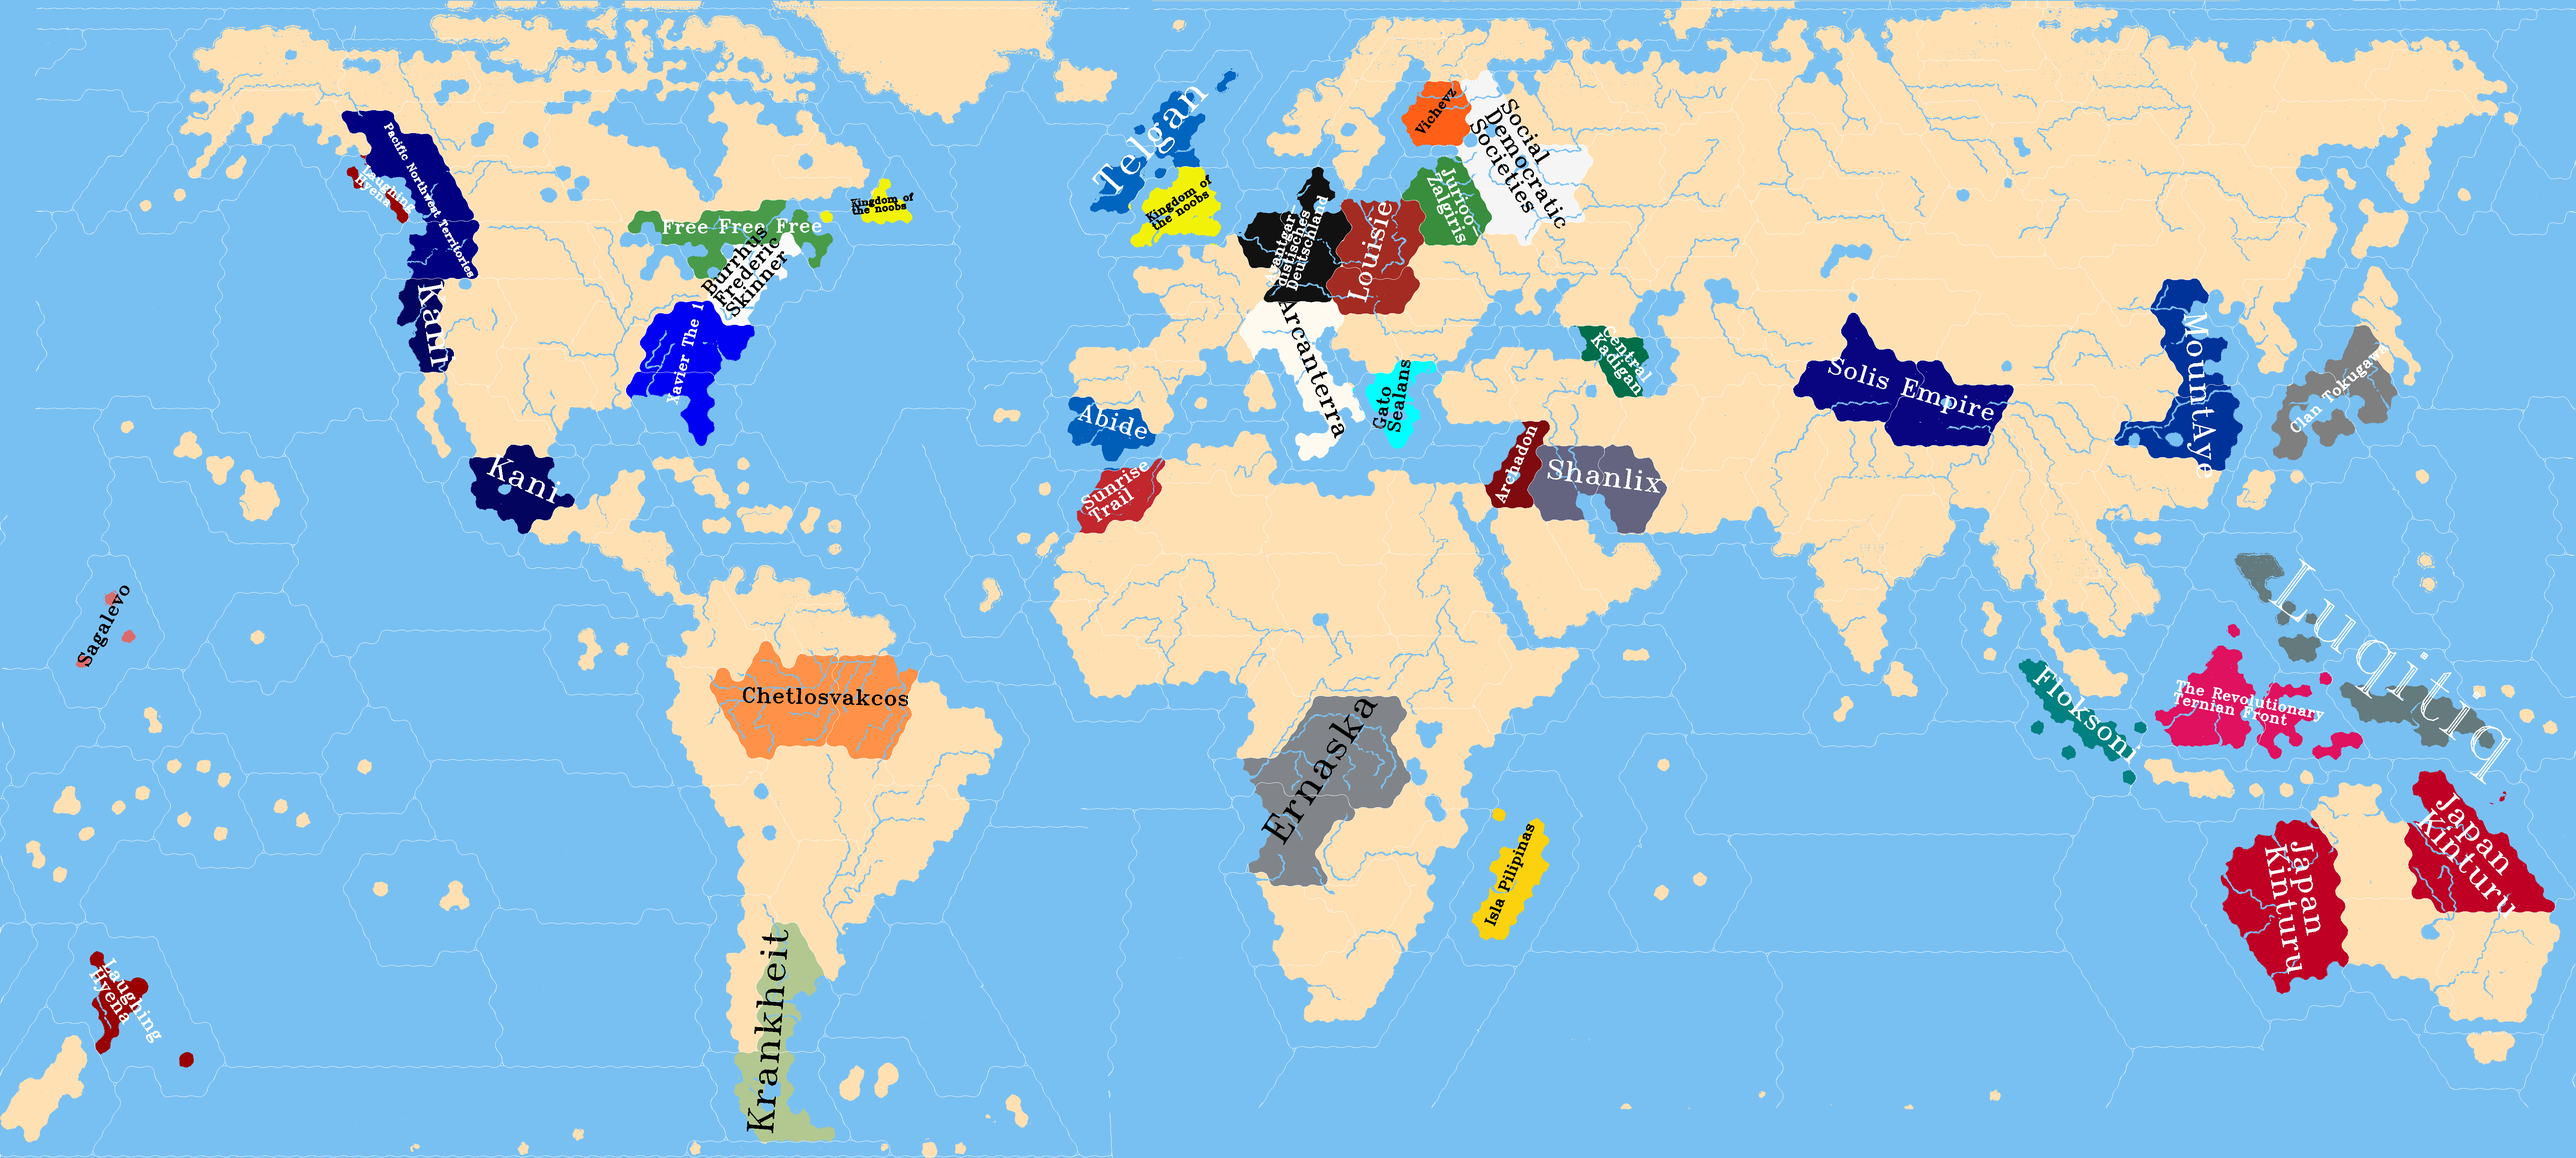
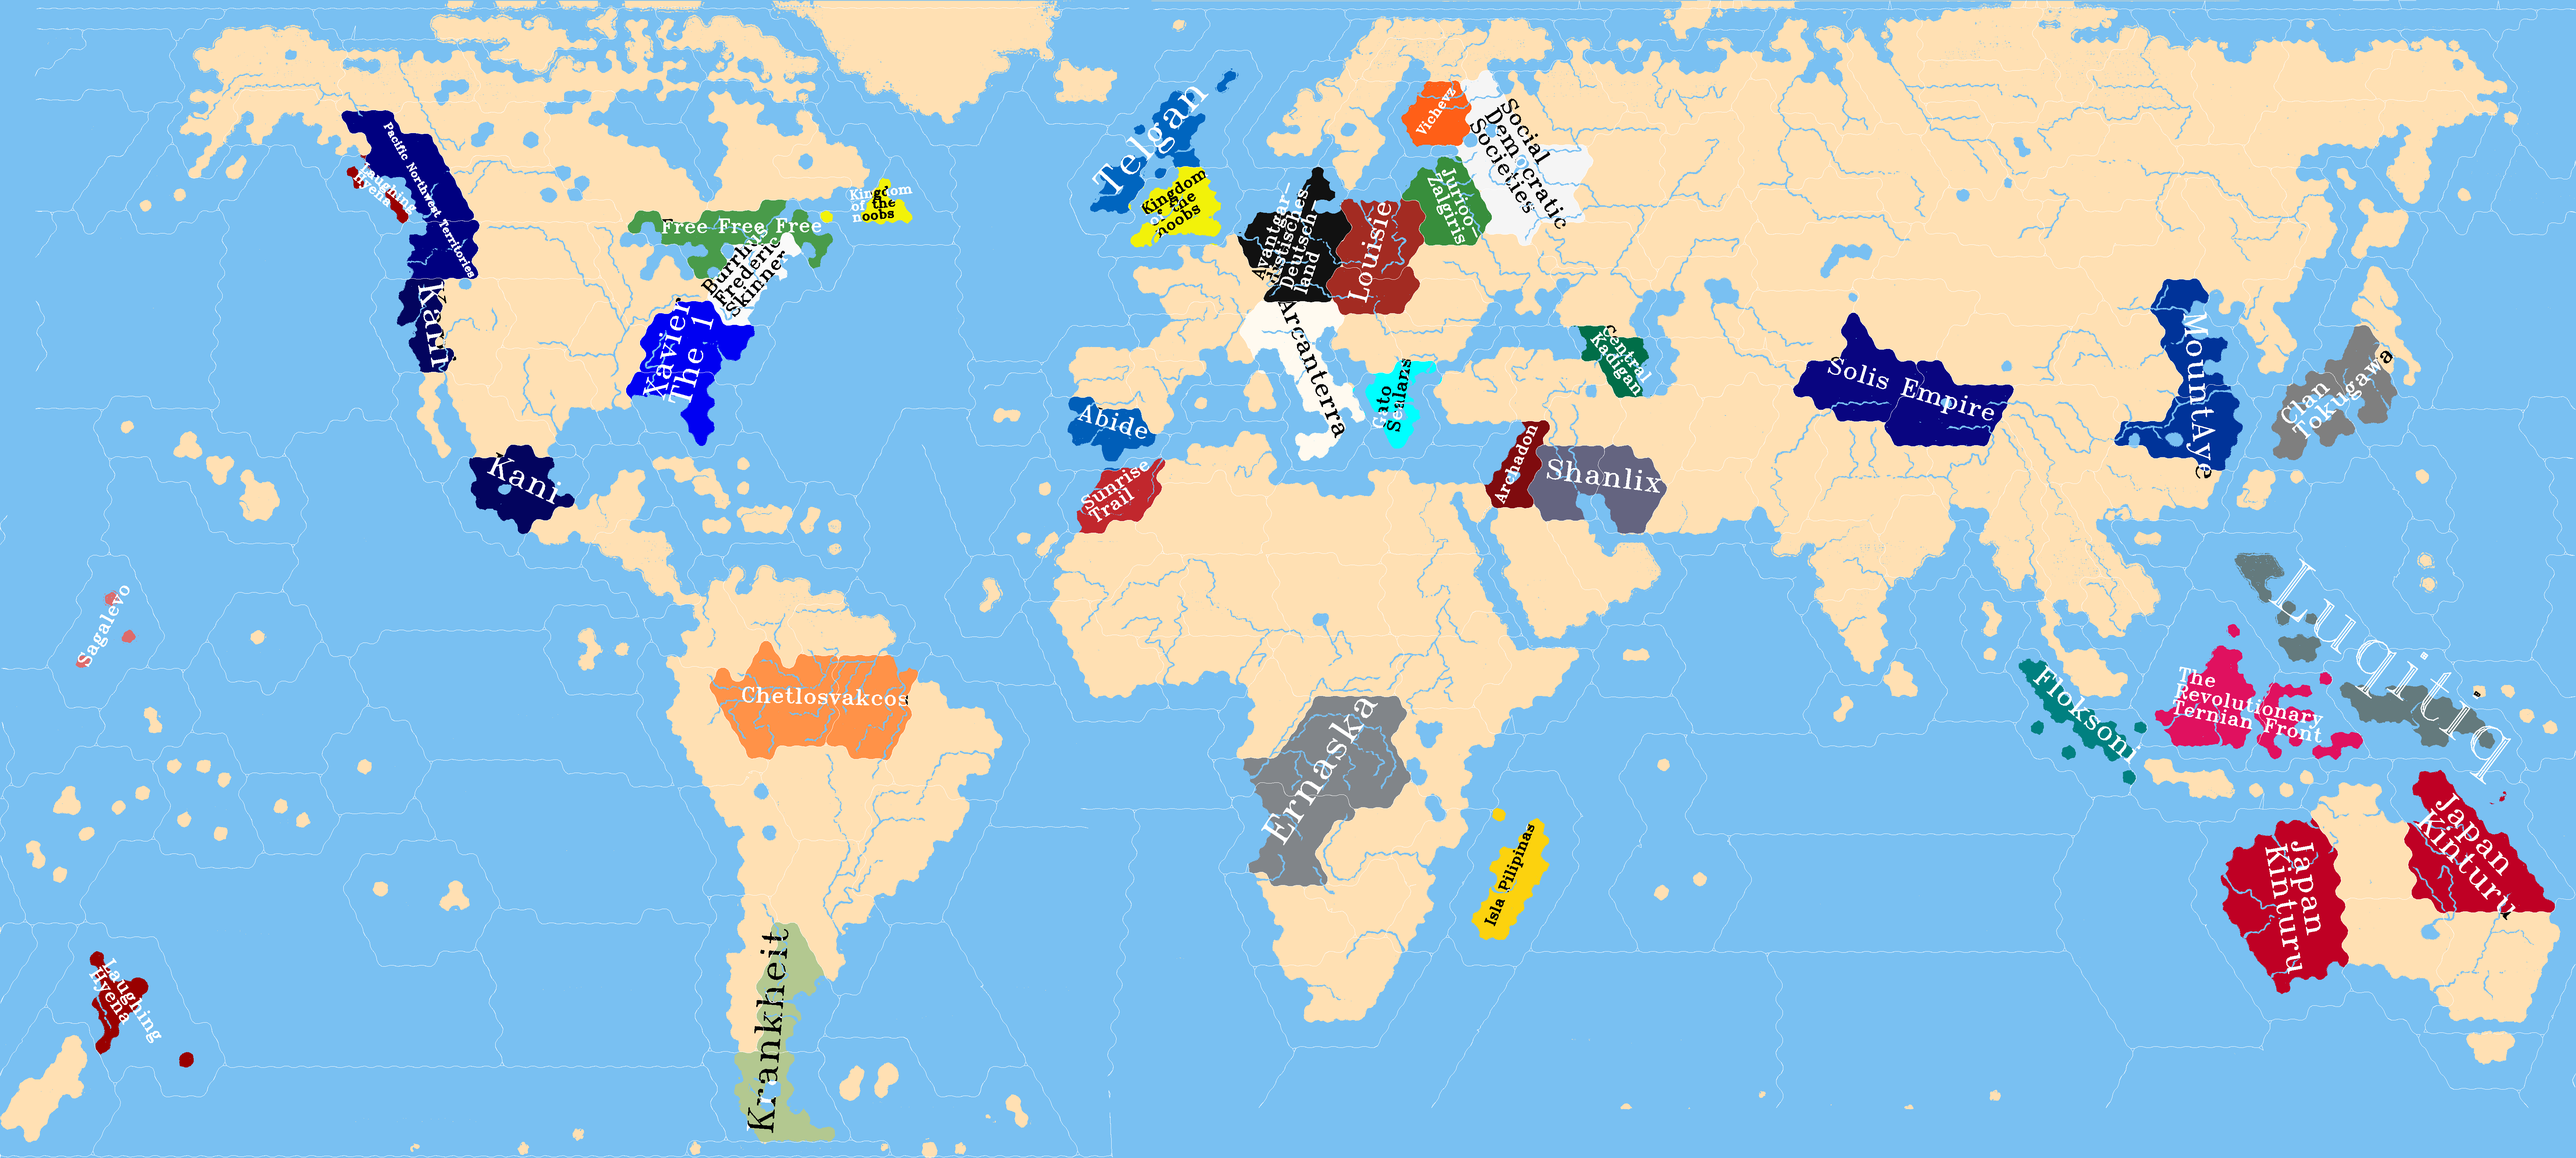
improve painting method; contrast name colors

diff --git a/scripts/paint_map.py b/scripts/paint_map.py
@@ -23,25 +23,26 @@ latest = np.zeros((*base.shape,3),dtype=int)
 latest[mask_lands] = hex2color(config["color_land"])
 latest[mask_ocean] = hex2color(config["color_seas"])
 
+mask_nations = np.zeros((*base.shape,3),dtype=int)
+
+for _,territroy in registered.dropna(subset="COLOR").iterrows():
+    row = int(territroy["PIN_ROW"])
+    col = int(territroy["PIN_COL"])
+    territory_all = segmentation.flood(borders,(row,col),connectivity=1)
+    territroy_land = np.logical_and(mask_lands,territory_all)
+    territroy_color = hex2color(territroy["COLOR"])
+    latest[territroy_land] = territroy_color
+    mask_nations[morphology.binary_dilation(territory_all,footprint=np.ones((3,3),dtype=int))] = territroy_color
+print("PAINTED COLORS")
+mask_bright = np.dot(latest,np.array([0.299,0.587,0.114]))/255>0.70
+mask_dark = np.logical_not(mask_bright)
+
+named = latest.copy()
 for n,name in enumerate(registered["STATE"].unique()):
-    count_words = len(name.split(" "))
     entries = registered.loc[registered["STATE"].eq(name)]
-    nation_territories = np.zeros_like(base,dtype=bool)
-    name_color = np.array([255,255,255])
-    nation_color = hex2color(config["color_land"])
-    for i,series in entries.iterrows():
-        row = int(series["PIN_ROW"])
-        col = int(series["PIN_COL"])
-        nation_territory = segmentation.flood(borders,(row,col),connectivity=1)
-        nation_territories = np.logical_or(nation_territories,nation_territory)
-        nation_land = np.logical_and(mask_lands,nation_territory)
-        
-        nation_color = hex2color(series["COLOR"])
-        latest[nation_land] = nation_color
-        if np.dot(nation_color,np.array([0.299,0.587,0.114]))>256/2:
-            name_color = np.array([0,0,0])
+    nation_color = hex2color(entries.loc[entries.index[0],"COLOR"])
+    nation_territories = np.all(mask_nations==nation_color,axis=-1)
     # Because we don't know if their territories are connected:
-    nation_territories = morphology.binary_opening(nation_territories,footprint=np.ones((3,3)))
     nation_territories_label = measure.label(nation_territories)
     for prop_territory_all in measure.regionprops(nation_territories_label):
         prop_territory_land = measure.regionprops(util.img_as_ubyte(np.logical_and(mask_lands,(nation_territories_label==prop_territory_all.label))))[0]
@@ -82,8 +83,10 @@ for n,name in enumerate(registered["STATE"].unique()):
                               )
             M = cv2.getRotationMatrix2D((xw,yw), angle, 1)
             text = cv2.warpAffine(text, M, (text.shape[1], text.shape[0]))
-            latest[(text>255/2)] = name_color
-    print(f"FINISHED PAINTING {n+1}: {name}")
+            named[np.logical_and(text>255/2,mask_bright)] = np.array([0,0,0])
+            named[np.logical_and(text>255/2,mask_dark)] = np.array([255,255,255])
+    print(f"TAGGING NAMES {n+1}: {name}")
 
-latest[(borders>0)] = np.array([255,255,255])
-io.imsave("latest.png",util.img_as_ubyte(latest))
+named[(borders>0)] = np.array([255,255,255])
+io.imsave("latest.png",util.img_as_ubyte(named))
+
